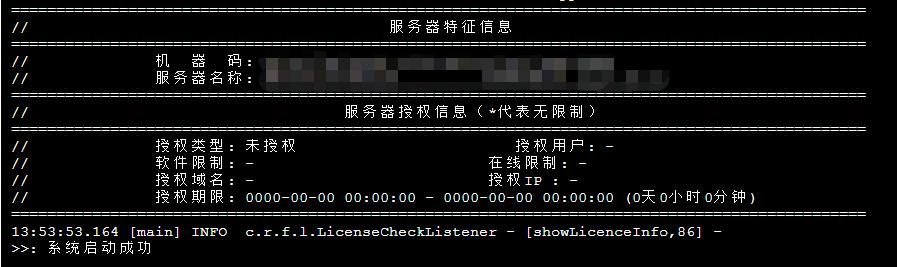
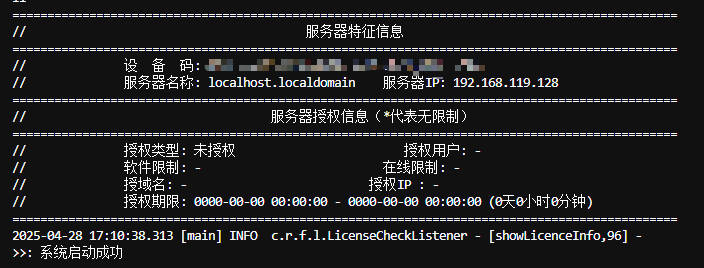
docs(update): 更新安装文档和日志
- 补充说明如何获取授权码和查询订单
- 优化 Linux 和 Windows 环境下的安装步骤说明
- 添加红叶服务管理工具的使用说明
- 更新数据库和 Redis 配置的说明
- 补充开机启动设置的步骤
- 更新更新日志，添加 v2.0.0 版本的新功能和修复内容

Changed region(s): [[0.0, 0.0, 0.9688, 0.9888]]

diff --git a/vuepress-starter/docs/introduce/update-log/update-log.md b/vuepress-starter/docs/introduce/update-log/update-log.md
@@ -1,4 +1,37 @@
 # 更新日志
+## v2.0.0 - 2025-05-02  
+修复：修复代理批量换卡功能提示无操作权限的问题（感谢@手游大咖）  
+修复：修复代理修改卡密/单码/软件用户时异常报错的问题（感谢@蚂蚁）  
+修复：修复数据库版本更新的逻辑，避免数据库版本超过主程序版本的问题  
+修复：管理员冻结代理时提示无权限的问题  
+修复：修复生成卡密/单码时过期时间计算异常问题，全局时区默认设置为GMT+8，之前版本如果服务器时区非GMT+8，会触发此问题（感谢@徐超人）  
+新增：新增红叶服务管理工具（Windows环境），支持管理红叶后台服务状态及设置开机自启等功能，使用该工具启动时黑窗口可以关闭，服务将在后台继续运行  
+新增：新增红叶服务管理工具（Linux环境），安装服务指令为：hy.sh install，安装后可使用系统服务指令：systemctl start/stop/restart/status hywlyz；卸载服务指令为：hy.sh uninstall，支持管理红叶后台服务状态及设置开机自启等功能  
+新增：软件和卡密/单码添加商城展示排序功能，可自定义商品展示顺序  
+优化：实时在线用户支持多条件筛选  
+优化：实时在线用户支持批量强退  
+优化：首页统计图表不统计当天数据  
+优化：首页版本直达功能显示软件类型  
+优化：增加检查网站地址正确性按钮，可帮助检测网站地址是否填写正确/域名是否生效  
+优化：当通过软件/卡类自定义链接打开网站时，切换导航项时将保留软件/卡类的限制状态  
+优化：优化设备码获取逻辑，修复有些服务器重启后设备码变化的问题  
+优化：优化下载文件的命名规则：文件名_YYYYMMDDHHMMSS.扩展名（感谢@蚂蚁）  
+优化：前台订单查询页面最大查询条数可在【系统配置】-【参数设置】中的【前台-订单最大查询条数】自行设置，默认为5（感谢@勇气可嘉）  
+【EXE对接工具1.5.0】  
+新增：新增对接方式选项：  
+标准PE（安全性高，适用于标准32位EXE应用，多用于C/C++开发的程序）（此选项为之前版本所使用的对接方式，能使用此选项尽量使用此选项）  
+嵌入（安全性低，适用于所有EXE应用，运行时释放原EXE，如python/java转EXE的程序）  
+新增：支持在程序结束时强制结束指定进程（感谢@手游大咖）  
+【EXE模板1.6.0】  
+新增：支持在程序结束时强制结束指定进程（感谢@手游大咖）  
+优化：添加异常倒计时退出（感谢@手游大咖）  
+【APK对接工具1.3.0】  
+新增：APK自动注入支持勾选增强模式来增加破解难度  
+新增：APK自动注入支持关闭自动登录选项  
+新增：APK自动注入支持忽略SPLASH相关的Activity  
+新增：APK自动注入支持忽略指定的Activity  
+【APK模板2.6.0】  
+优化：添加退出软件时同时结束service，避免悬浮窗驻留后台  
 
 ## v1.9.0 - 2024-10-15
 修复：修复每日在线人数统计失败的问题  

diff --git a/vuepress-starter/docs/install/windows/upupw/windows-upupw.md b/vuepress-starter/docs/install/windows/upupw/windows-upupw.md
@@ -75,7 +75,10 @@ Mysql、Redis、Nginx这三个软件已经集成在在UPUPW面板中，我们只
         username: root
         password: <数据库密码>
 ```
-
+#### （2）修改Redis密码
+::: tip
+如果您是刚安装的Redis，默认是没有密码的，此处无需修改，请忽略此步骤
+:::
 如果配置了Redis数据库密码，需要将`Redis密码`处更改为您的密码（如果您未配置过Redis密码，默认密码为空，此处无需修改）
 ```{8}
 # redis 配置
@@ -124,22 +127,33 @@ location /profile/ {
 
 ### 4、启动后端程序
 双击`hy.bat`文件即可启动程序  
+
+::: tip 更多操作
+双击打开`红叶服务管理工具`可进行更多操作  
+![image](./14.jpg)
+:::
+
 如果出现以下提示代表启动成功
 ![image](./8.jpg)
 
 :::tip
-请记录此处提示的`机器码`，需要凭此码获取授权信息
+`设备码`为您服务器的唯一标识，若果您是内网环境搭建，需要凭此码获取授权信息（未获得授权时在管理员登录页尝试登录也会弹出此设备码）
+![image](./15.jpg)
 :::
 
 此时即可通过您的域名尝试访问网站`http://域名/admin`，默认管理员账号密码为：admin/admin123，如果登录时提示未授权说明部署成功，如果提示后端连接异常，请检查上述步骤，并重新启动后端程序
 
-## 三、购买授权
+## 三、设置开机启动
+双击打开`红叶服务管理工具`，点击`设置开机自动启动`即可  
+![image](./16.jpg)
+
+## 四、购买授权
 购买请访问商城：[https://shop.coordsoft.com/](https://shop.coordsoft.com/)
 购买授权码后点击 [激活授权](https://shop.coordsoft.com/getLicense) 为您的网站在线授权
 
-## 四、登录网站
+## 五、登录网站
 至此，整个网站部署完成，如果一切正常，您可通过您的域名访问属于您的红叶网络验证系统  
-商店地址：http://域名  
+前台地址：http://域名  
 后台地址：http://域名/admin  
 默认管理员账号密码：admin/admin123
 

diff --git a/vuepress-starter/docs/install/require-env/require-env.md b/vuepress-starter/docs/install/require-env/require-env.md
@@ -1,14 +1,17 @@
 # 红叶网络验证环境
 
-部署本验证系统需要用户自备服务器(非虚拟主机)，Windows或Linux均可，推荐使用Linux-Centos7服务器
+::: tip 自备服务器
+**部署本验证系统需要用户自备服务器(非虚拟主机)，Windows或Linux均可，推荐使用Linux-Centos7服务器**  
+请不要使用阿里云服务器，阿里云服务器禁止部署验证类程序，会被判定为违规
+:::
 
 ## 最低服务器配置要求：  
 服务器具体需要什么配置，取决于您的用户规模以及心跳策略，以下数据仅供参考，请自行测试
-::: tip
-同时在线用户数100+：2C4G2M(最低) 2C8G10M(建议)  
+::: tip 参考配置
+同时在线用户数100+：2C4G2M(最低) 2C4G5M(建议)  
 同时在线用户数1000+：4C8G10M(最低) 4C16G20M(建议)  
-同时在线用户数5000+：8C16G20M(最低) 8C32G100M(建议)  
-同时在线用户数10000+：8C32G50M(最低) 8C64G100M(建议)  
+同时在线用户数5000+：4C16G20M(最低) 4C32G50M(建议)  
+同时在线用户数10000+：8C16G30M(最低) 8C32G50M(建议)  
 :::
 
 ## 服务器需安装以下运行环境

diff --git a/vuepress-starter/docs/install/license/license.md b/vuepress-starter/docs/install/license/license.md
@@ -15,10 +15,12 @@
 5. 授权有效期内可随意更换访问端口及域名，无需重新授权。  
 :::
 
-
 ## 一、购买授权
 购买请访问商城：[https://shop.coordsoft.com/](https://shop.coordsoft.com/)  
-购买成功后系统将会自动弹出授权码
+购买成功后系统将会自动弹出授权码  
+:::tip
+如果系统未及时弹出授权码，请尝试等待5分钟后，尝试[查询订单](https://shop.coordsoft.com/queryOrder)  
+:::
 
 ## 二、激活授权
-购买授权码后点击 [激活授权](https://shop.coordsoft.com/getLicense) 根据网站指引为您的网站进行授权
+购买授权码后点击 [激活授权](https://shop.coordsoft.com/getLicense) 根据网站指引为您的网站进行授权  
